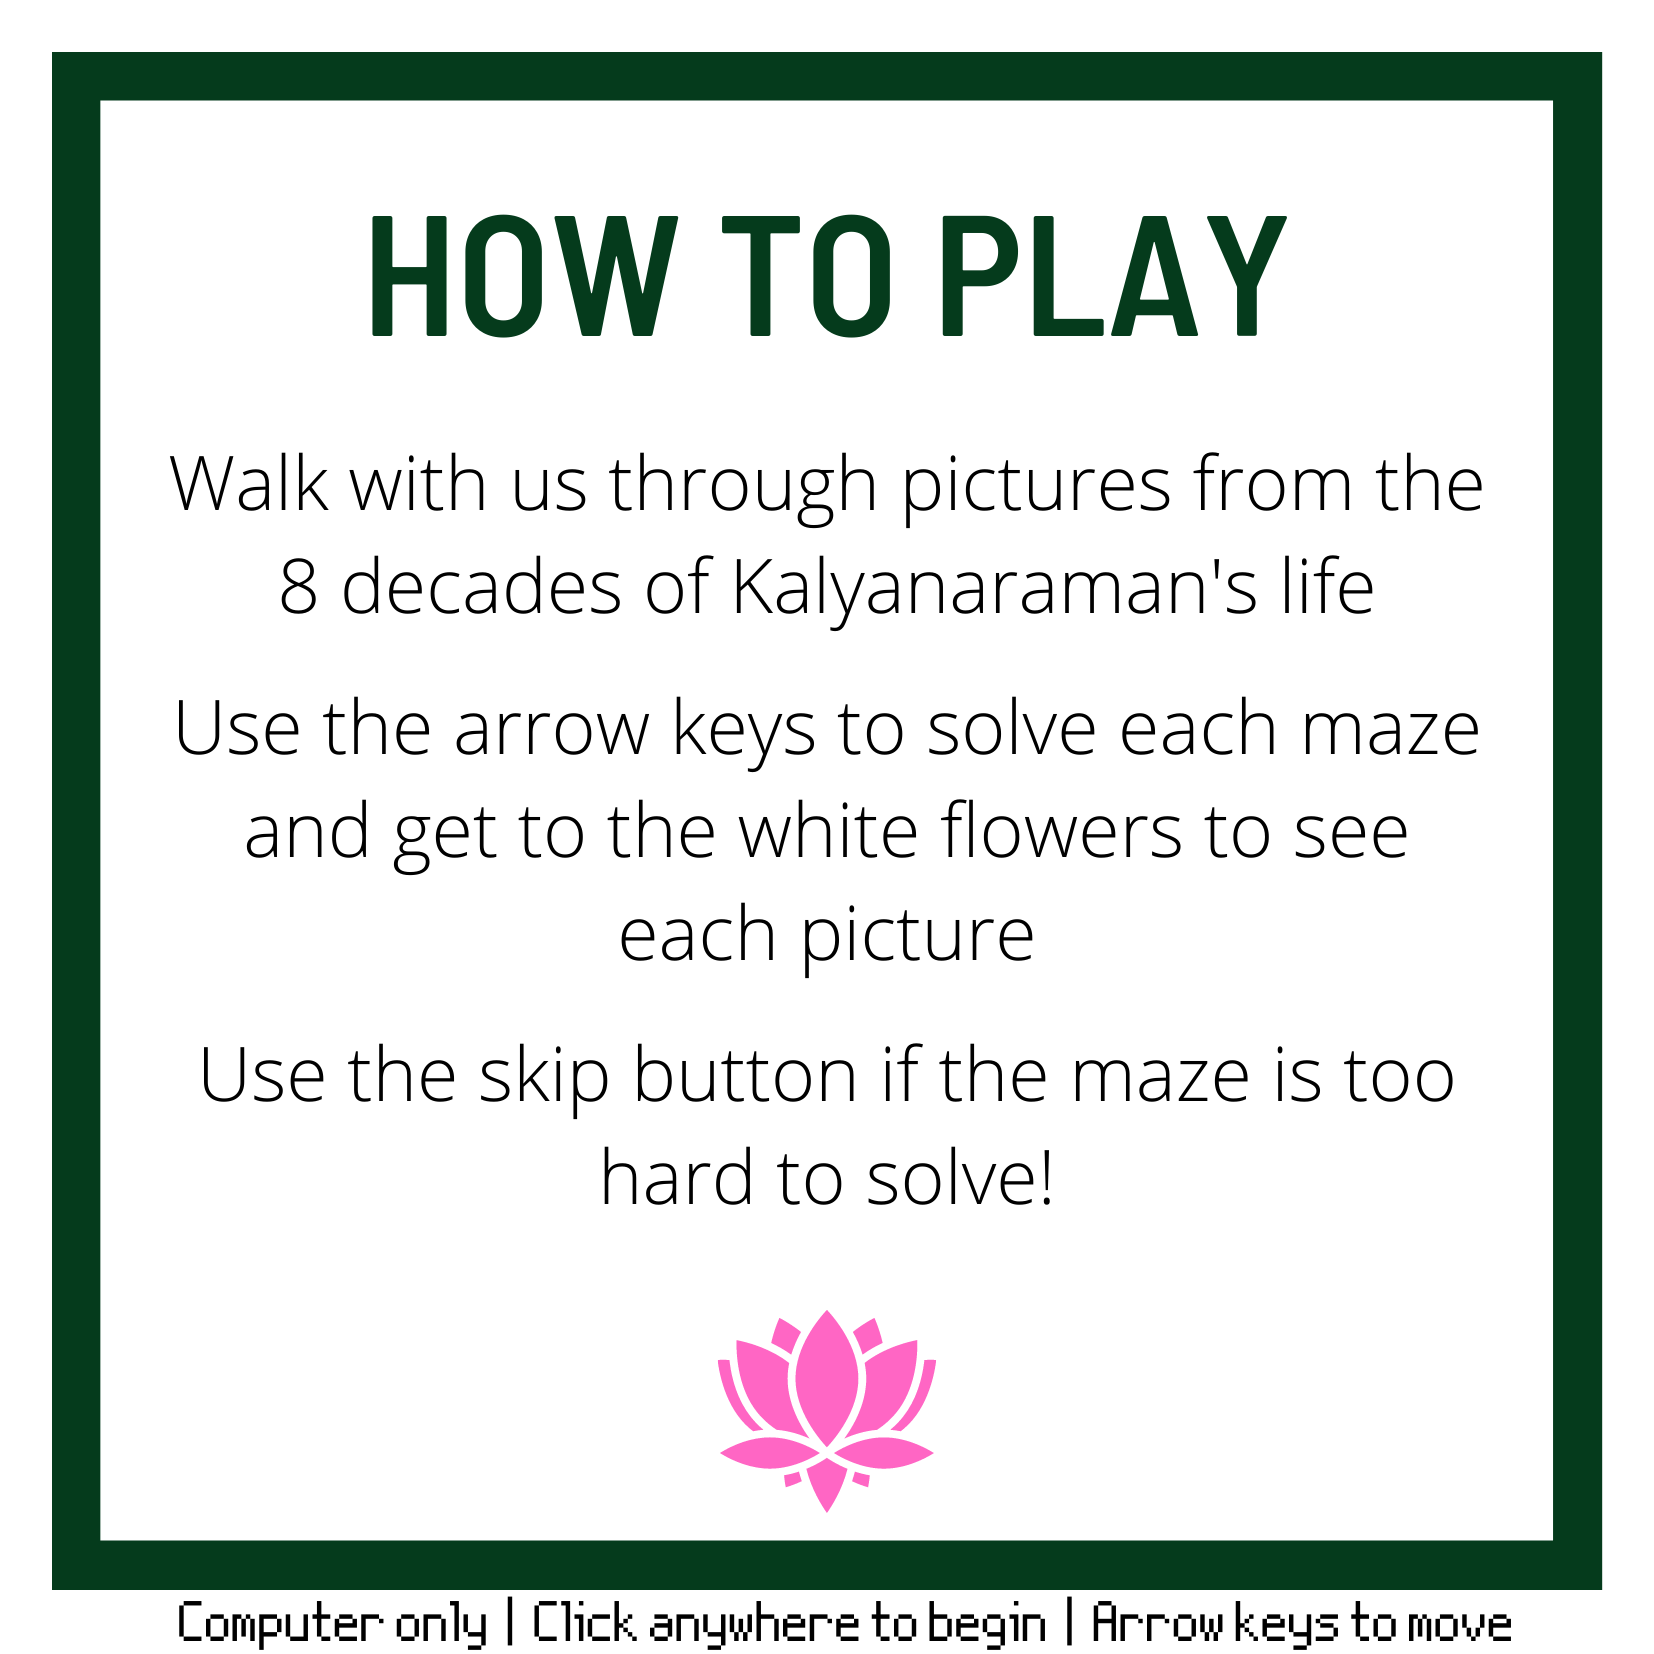
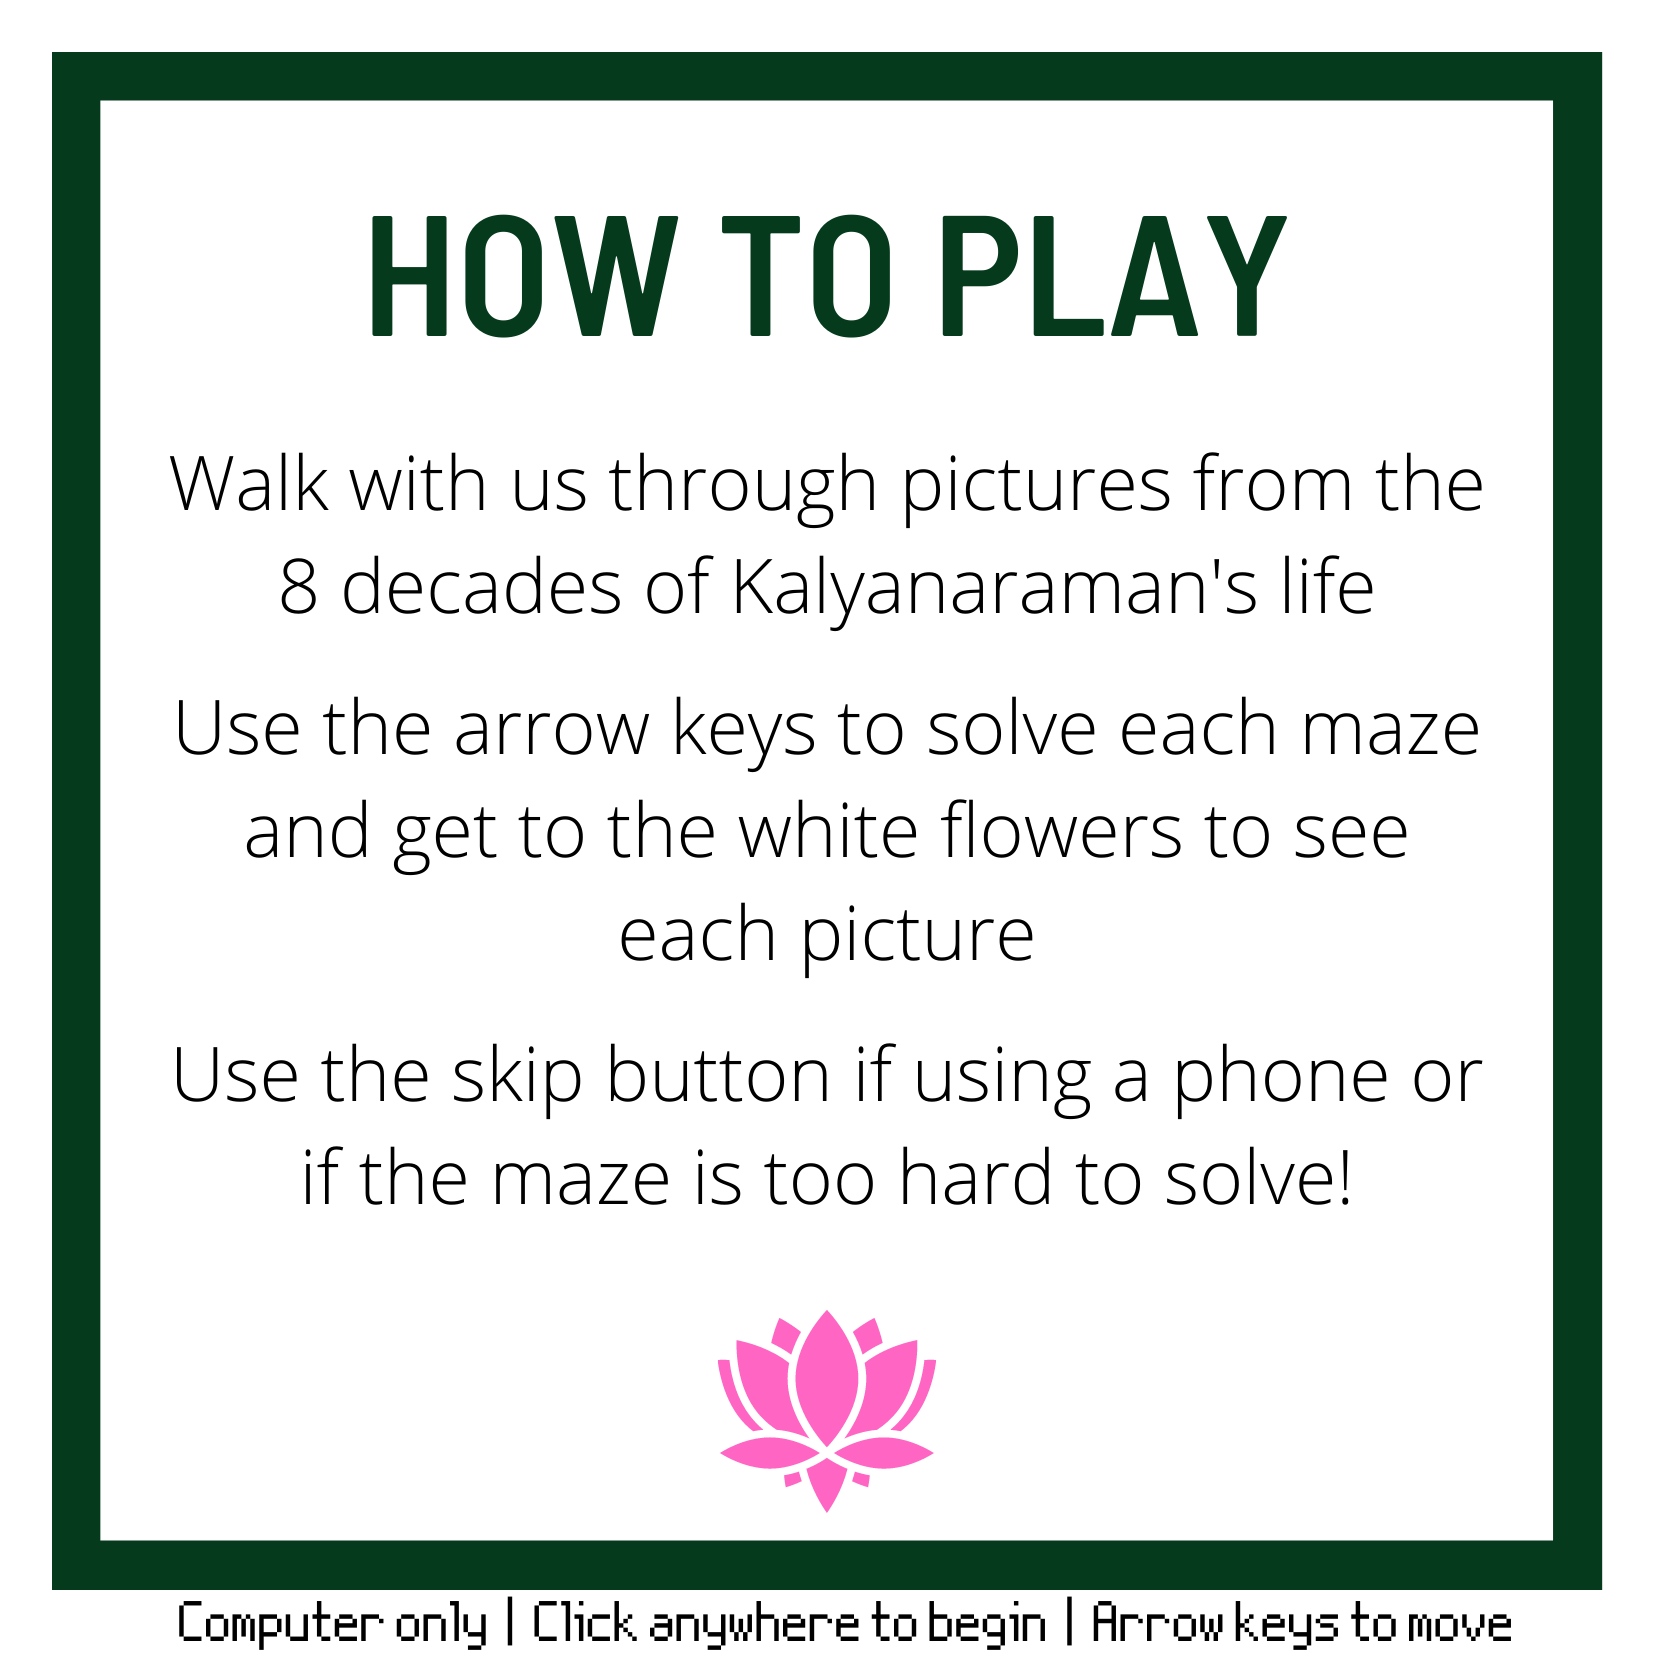
Fix images to apply to phones
Final edits: fix images. Now to send

Changed region(s): [[0.1233, 0.6167, 0.8942, 0.74], [0.7092, 0.7092, 0.8017, 0.74]]

diff --git a/scene.js b/scene.js
@@ -22,13 +22,14 @@ var sceneEndStats = [{imgX: 176, imgY: 176, imgScale: 0.66, newX: 360, newY: 80,
     {imgX: 864, imgY: 528, imgScale: 0.214, newX: 992, newY: 737, panX: 864, panY: 864, rmT1: [63, 44], rmT2: [62, 44], add1: [62, 42], add2: [63, 42]},
     {imgX: 864, imgY: 864, imgScale: 0.25, newX: 678, newY: 863, panX: 528, panY: 864, rmT1: [42, 52], rmT2: [42, 53], add1: [44, 52], add2: [44, 53]},
     {imgX: 528, imgY: 864, imgScale: 0.15625, newX: 343, newY: 905, panX: 0, panY: 864, rmT1: [21, 56], rmT2: [21, 57], add1: [22, 56], add2: [22, 57]}, 
-    {imgX: 176, imgY: 864, imgScale: 0.15625, newX: 80, newY: 656, panX: 0, panY: 528}, 
-    {imgX: 176, imgY: 528, imgScale: 0.4167, newX: -10, newY: -10, panX: 0, panY: 528}];
+    {imgX: 176, imgY: 864, imgScale: 0.15625, newX: 80, newY: 656, panX: 0, panY: 528, rmT1: [21, 56], rmT2: [21, 57], add1: [22, 56], add2: [22, 57]}, 
+    {imgX: 176, imgY: 528, imgScale: 0.4167, newX: -10, newY: -10, panX: 520, panY: 528, rmT1: [21, 56], rmT2: [21, 57], add1: [22, 56], add2: [22, 57]}];
 
 function preload ()
 {
     this.load.image('invite', 'assets/80th_Invite.png');
     this.load.image('instructions', 'assets/80th_Instructions.png');
+    this.load.image('end', 'assets/80th_End.png');
     this.load.image('tiles', 'assets/80th_Tiles.png');
     this.load.image('imagedot1', 'assets/80th_Photo1.png');
     this.load.image('imagedot2', 'assets/80th_Photo2.png');
@@ -137,6 +138,7 @@ function create ()
             camera.centerOn(0, 0);
             instructions = false;
             skip.visible = true;
+            this.add.image(520, 528, 'end').setScale(0.19);
         };
     });
     
